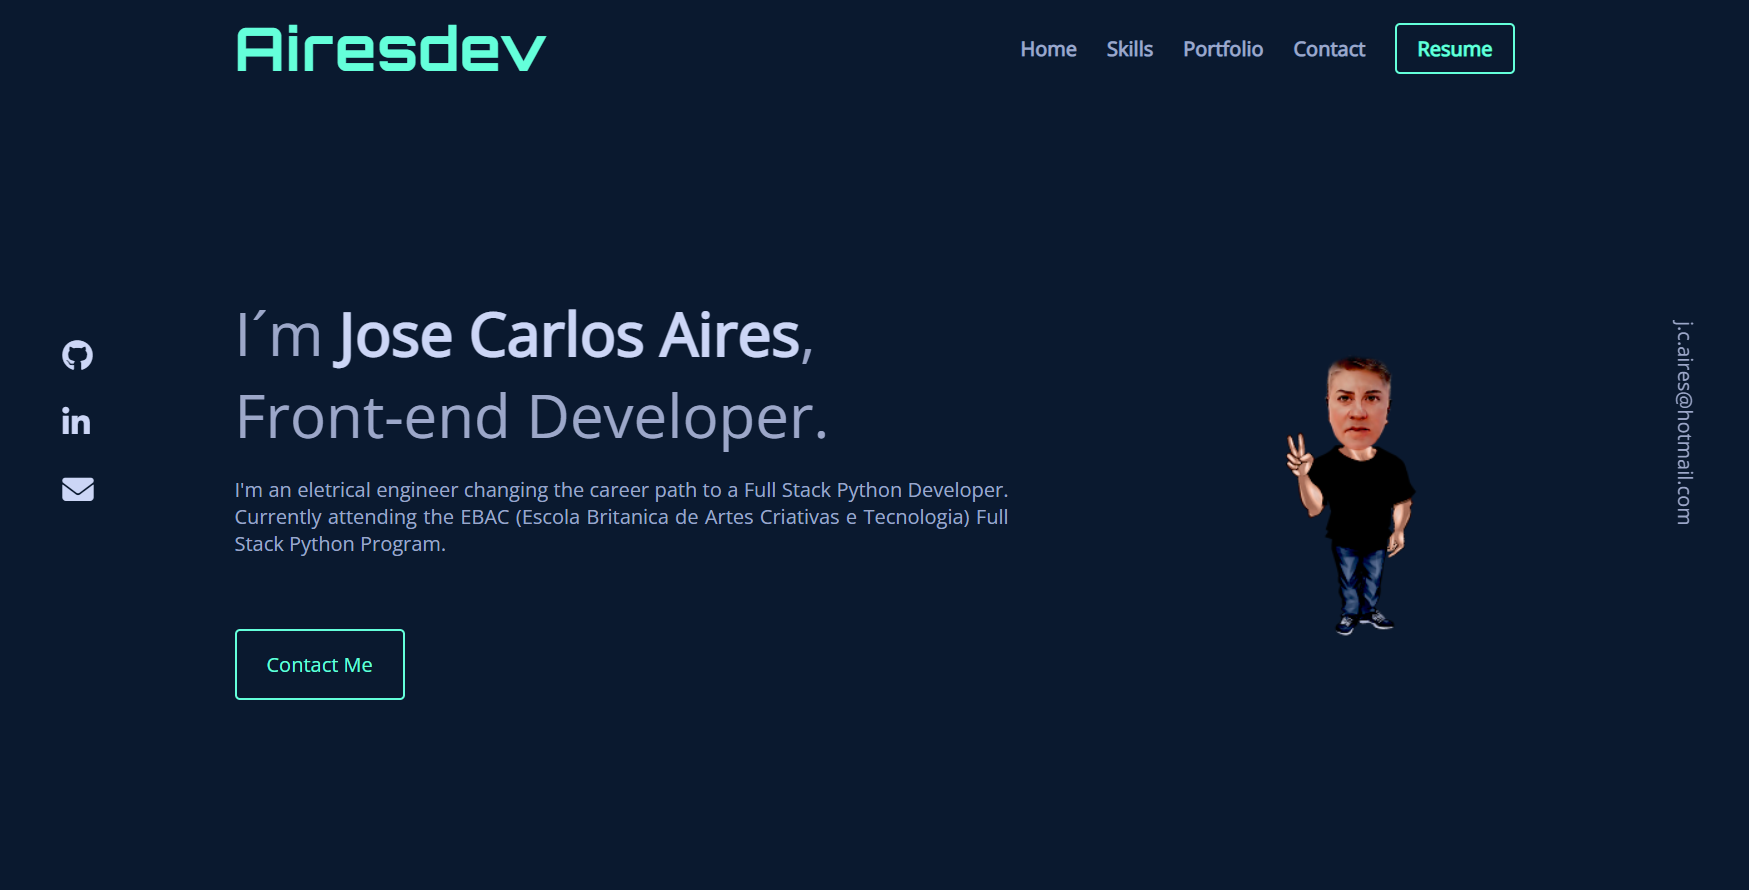
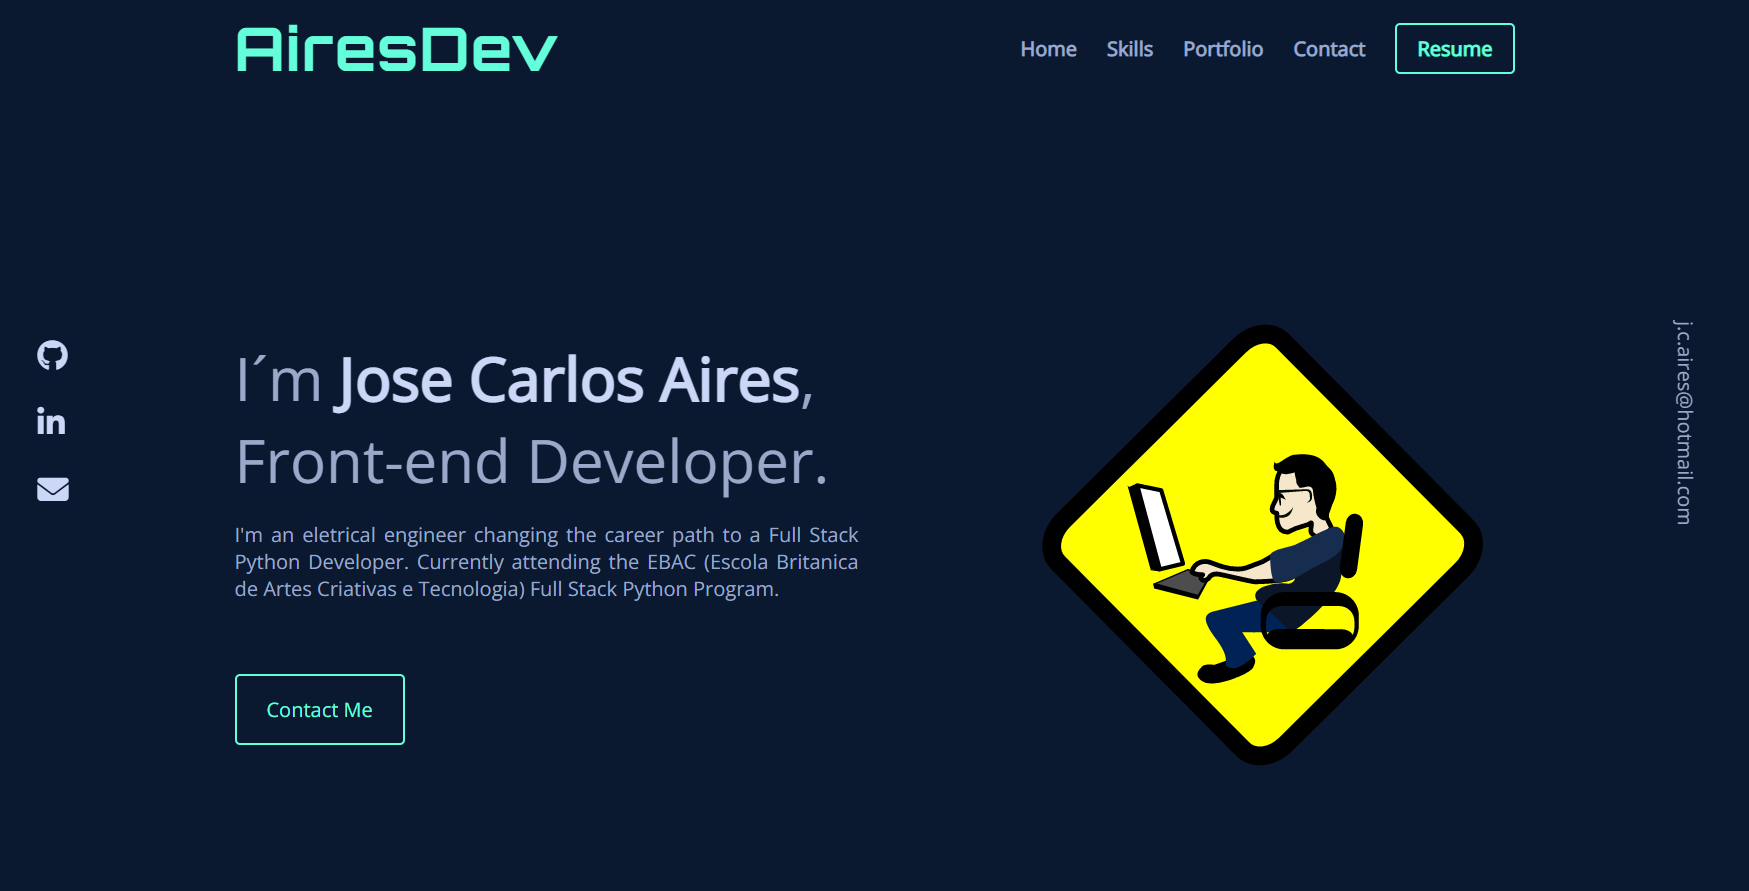
Images replacements

diff --git a/src/main.scss b/src/main.scss
@@ -153,6 +153,7 @@ h2 {
 
     &__avatar {
         border-radius: 16px;
+        height: 400px;
 
         @media (max-width: 768px) {
             display: none;
@@ -375,6 +376,7 @@ h2 {
 
     &__items {
         display: block;
+        text-align: center;
 
         @media (max-width: 768px) {
             display: flex;
@@ -445,7 +447,7 @@ footer {
     &__media {
         position: fixed;
         top: 36vh;
-        left: 40px;
+        left: 20px;
         padding: 0px;
         margin: 0px;
 

diff --git a/index.html b/index.html
@@ -59,7 +59,7 @@
                 </p>
                 <a href="mailto:j.c.aires@hotmail.com" class="button button--primary" target="_blank">Contact Me</a>
             </div>
-            <img class="hero__avatar" src="./images/jca.png" alt="Foto de Jose Carlos Aires">
+            <img class="hero__avatar" src="./images/coding.svg" alt="Foto de Jose Carlos Aires">
         </div>
     </section>
     <section id="skills" class="skills">

diff --git a/build/main.css b/build/main.css
@@ -131,6 +131,7 @@ h2 {
 }
 .hero__avatar {
   border-radius: 16px;
+  height: 400px;
 }
 @media (max-width: 768px) {
   .hero__avatar {
@@ -361,6 +362,7 @@ h2 {
 }
 .contact__items {
   display: block;
+  text-align: center;
 }
 @media (max-width: 768px) {
   .contact__items {
@@ -435,7 +437,7 @@ footer {
 .social__media {
   position: fixed;
   top: 36vh;
-  left: 40px;
+  left: 20px;
   padding: 0px;
   margin: 0px;
 }
